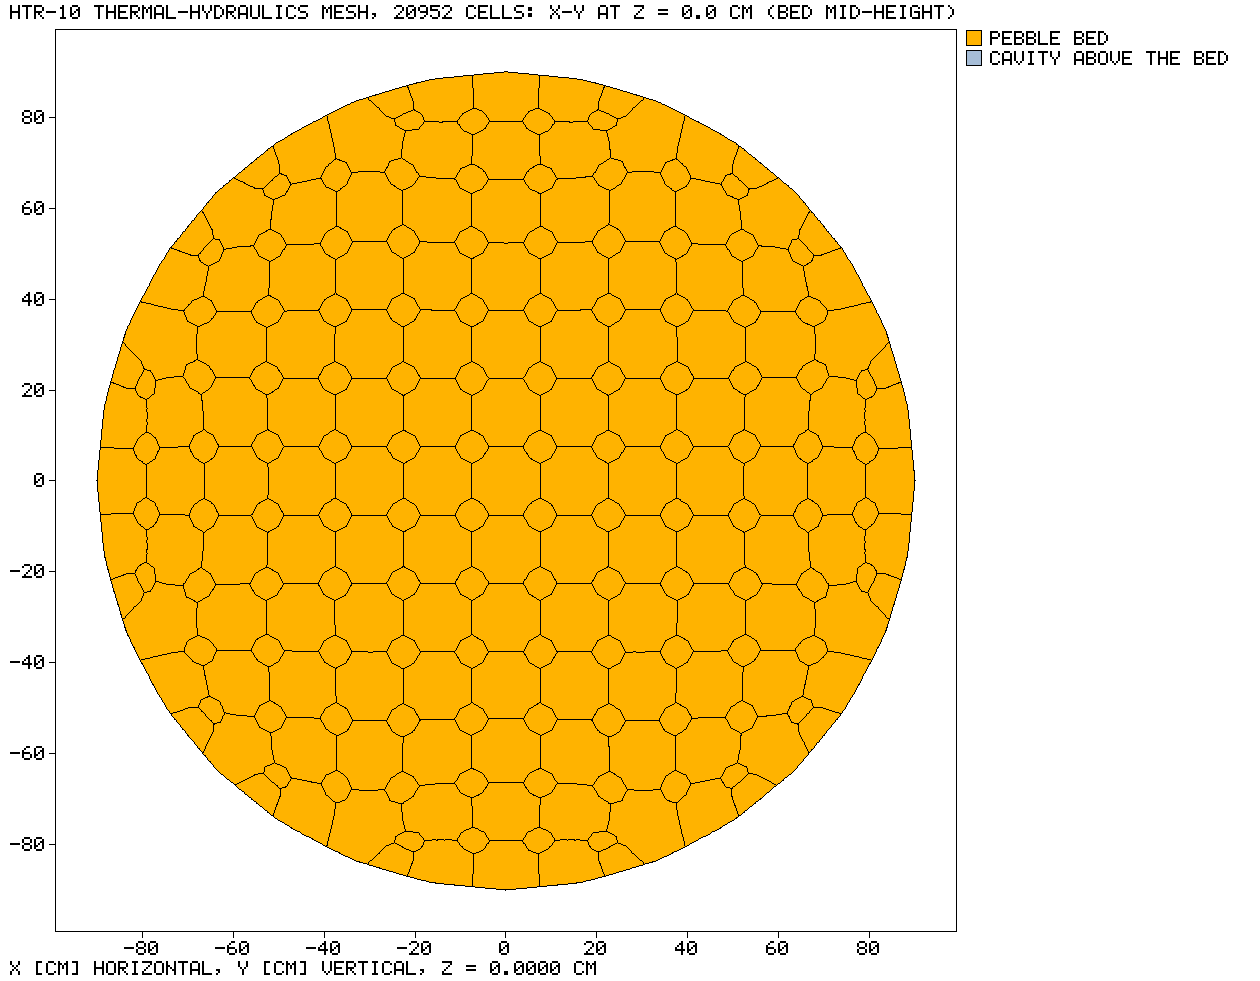
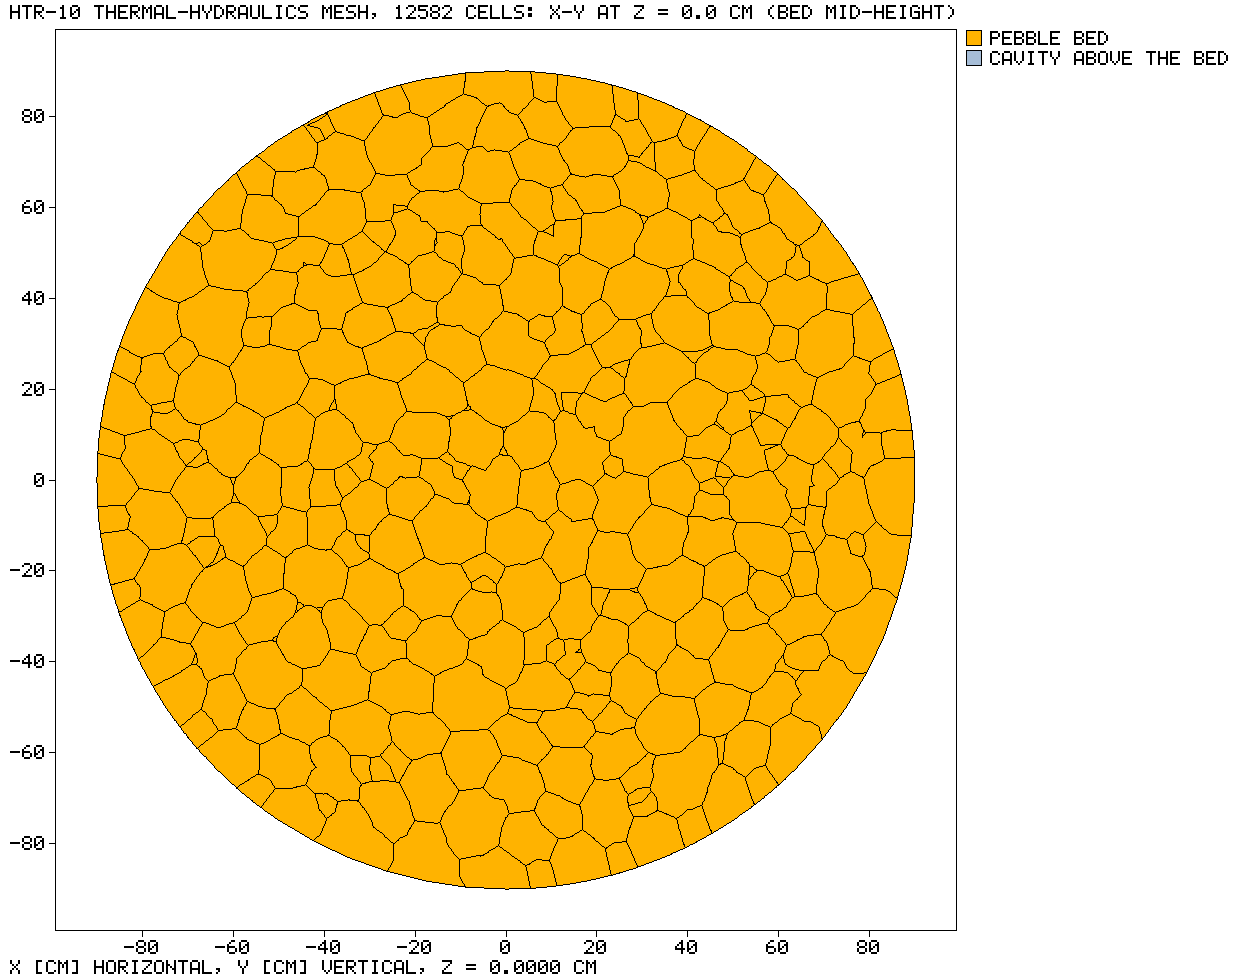
dhoby-ghaut Step 7: neutronics and TH on TetGen tet-duals; the layered TH mesh snapped before its layers grow
Maintainer, 2026-11-26: "Snap the layered TH mesh properly too and
neutronics. Tetgen dual". The neutronics and TH meshes use the cfMesh
default (TetGen, sized by the cell size; carved only for refine > 0); the
structural Tet4 mesh stays carved. The TH mesh's bare dual is morphed and
snapped first, then cfMesh's boundaryLayerOptimisation grows the 3 layers on
the true wall, then the surface faces alone are re-snapped (the untangler
moved a wall point 0.8 mm off). The face snap's recognition margin is now
0.5 % of R (HTR-10 radii are >= 5.4 % apart). TetGen's layers-first route
still refuses this mesh at the cavity_wall / bed_wall seam.

Step 7 at the default sizes: neutronics 7 657 cells, -0.04 %, 56.3 deg; TH
12 582 cells (7 722 layer cells = 3 x 2 574 wall faces), -0.15 %, 80.9 deg,
0 non-star cells (carved, unsnapped: -0.87 %, 89.6 deg); structural -0.16 %.
Run 2 m 34 s. The gate test now asserts the TH side walls (layered and not)
and the neutronics outer wall are on their true radius to 1e-9 m and the TH
layers grew. The earlier same-day state (TH not snapped) is struck through
in the record; images and CSV refreshed. CHT mesh unchanged.

Claude-Session: https://claude.ai/code/session_01MuN674Wnq45CwGurhQFz6G

diff --git a/crates/dhoby-ghaut/src/bin/dhoby-ghaut/meshing.rs b/crates/dhoby-ghaut/src/bin/dhoby-ghaut/meshing.rs
@@ -105,6 +105,26 @@ fn opts(cell_cm: f64, refine: u8, dual: bool) -> TetDualOptions {
     }
 }
 
+/// [`opts`] on TetGen's tetrahedra (the cfMesh default, sized by the cell
+/// size), unless `refine > 0` asks for the octree only the carved route
+/// has. The neutronics and thermal-hydraulics meshes (maintainer,
+/// 2026-11-26: "TetGen dual"); the structural Tet4 mesh stays carved.
+fn opts_tetgen(cell_cm: f64, refine: u8, dual: bool) -> TetDualOptions {
+    let o = opts(cell_cm, refine, dual);
+    if refine > 0 {
+        return o;
+    }
+    TetDualOptions { tet_source: TetDualOptions::default().tet_source, ..o }
+}
+
+/// Step 7's snapping settings: on unless `DHOBY_NO_SNAP=1`; the morph band is
+/// one cell (`DHOBY_SNAP_MORPH=0` turns the morph off).
+fn step7_snap(cell_cm: f64) -> (bool, f64) {
+    let on = std::env::var("DHOBY_NO_SNAP").as_deref() != Ok("1");
+    let delta = if std::env::var("DHOBY_SNAP_MORPH").as_deref() == Ok("0") { 0.0 } else { cell_cm / 100.0 };
+    (on, delta)
+}
+
 fn to_m(profile: &[[f64; 2]]) -> Vec<[f64; 2]> {
     profile
         .iter()
@@ -156,7 +176,7 @@ fn mesh_role(
     d: &RzDomain,
     plan: &MeshPlan,
     role: MeshRole,
-) -> Result<(VolumeMesh, Vec<String>, CellType), String> {
+) -> Result<(VolumeMesh, Vec<String>, CellType, bool), String> {
     let s = &plan.roles[role.index()];
     match role {
         MeshRole::Neutronics => {
@@ -165,9 +185,9 @@ fn mesh_role(
             let (vm, rep) = outram_park_fork_cfmesh::pipeline::surface_to_tet_dual_mesh(
                 &p,
                 &t,
-                &opts(s.cell_size_cm, s.refine, true),
+                &opts_tetgen(s.cell_size_cm, s.refine, true),
             )?;
-            Ok((vm, rep.stage_notes, CellType::TetDual))
+            Ok((vm, rep.stage_notes, CellType::TetDual, false))
         }
         MeshRole::Structural => {
             let prof = to_m(&d.structural_profile());
@@ -179,7 +199,7 @@ fn mesh_role(
             };
             let (vm, rep) =
                 outram_park_fork_cfmesh::pipeline::surface_to_tet_dual_mesh(&p, &t, &o)?;
-            Ok((vm, rep.stage_notes, CellType::Tet4))
+            Ok((vm, rep.stage_notes, CellType::Tet4, false))
         }
         MeshRole::ThermalHydraulics => {
             let prof = to_m(&d.th_profile());
@@ -207,13 +227,25 @@ fn mesh_role(
                 })
                 .collect();
             let regions = SurfaceRegions::from_labels(&labels);
-            let (vm, rep) = outram_park_fork_cfmesh::pipeline::surface_to_tet_dual_mesh_multipatch(
+            let (mut vm, rep) = outram_park_fork_cfmesh::pipeline::surface_to_tet_dual_mesh_multipatch(
                 &p,
                 &t,
                 &regions,
-                &opts(s.cell_size_cm, s.refine, true),
+                &opts_tetgen(s.cell_size_cm, s.refine, true),
             )?;
             let mut notes = rep.stage_notes;
+            // Snap the bare dual FIRST (2026-11-26, maintainer: "snap the
+            // layered TH mesh properly"), then grow the layers on the true
+            // wall, so every layer column is built from the snapped surface
+            // rather than moved after it (snapping a layered mesh took its
+            // worst face to 92.7 deg). After the layers, only the surface
+            // faces are snapped again (no morph): the layerer's untangling
+            // may move a wall point off the cylinder.
+            let segs = profile_segments_m(&d.th_profile());
+            let (snap_on, delta) = step7_snap(s.cell_size_cm);
+            if snap_on {
+                notes.push(snap_checked(&mut vm, None, &segs, s.n_seg, delta)?);
+            }
             // Boundary layers on the fluid's wall only (maintainer default:
             // fluid = tet-dual + layers, porous = tet-dual). The pipeline grows
             // layers before naming patches, so they are grown here, on the
@@ -253,17 +285,26 @@ fn mesh_role(
                     100.0 * lo.full_coverage(),
                     s.layers
                 ));
-                let named = assign_patches_by_region(&layered, &p, &t, &regions)?;
+                let mut named = assign_patches_by_region(&layered, &p, &t, &regions)?;
                 let q = outram_park_fork_cfmesh::checks::check_quality(&named);
                 if named.validate().is_ok() && q.n_negative_volume_cells == 0 {
                     if named.n_cells == before {
                         notes.push("boundary layers added none on cavity_wall (the adaptive layerer backed off)".into());
                     }
-                    return Ok((named, notes, CellType::TetDualWithLayers));
+                    if snap_on {
+                        match snap_checked(&mut named.clone(), None, &segs, s.n_seg, 0.0) {
+                            Ok(_) => {
+                                let n = snap_checked(&mut named, None, &segs, s.n_seg, 0.0)?;
+                                notes.push(format!("after the layers: {n}"));
+                            }
+                            Err(e) => notes.push(format!("after the layers, the surface re-snap was refused ({e}); the layered mesh is kept as grown on the snapped wall")),
+                        }
+                    }
+                    return Ok((named, notes, CellType::TetDualWithLayers, snap_on));
                 }
                 notes.push("boundary layers skipped: they would invalidate the mesh".into());
             }
-            Ok((vm, notes, CellType::TetDual))
+            Ok((vm, notes, CellType::TetDual, snap_on))
         }
     }
 }
@@ -409,7 +450,7 @@ pub fn build(
             k as f64 / 6.0,
         ));
         let t = Instant::now();
-        let (mut vm, mut notes, cell_type) = mesh_role(d, plan, role)?;
+        let (mut vm, mut notes, cell_type, already_snapped) = mesh_role(d, plan, role)?;
         // Snap onto the true surface of revolution (2026-11-26, "snap
         // properly"): the profile's cylinders and cone, not its facets.
         let prof = match role {
@@ -419,14 +460,10 @@ pub fn build(
         };
         let n_seg = plan.roles[role.index()].n_seg;
         // `DHOBY_NO_SNAP=1` is the ablation (Step 7 has no flag of its own).
-        let snap_on = std::env::var("DHOBY_NO_SNAP").as_deref() != Ok("1");
-        let delta = if std::env::var("DHOBY_SNAP_MORPH").as_deref() == Ok("0") { 0.0 } else { plan.roles[role.index()].cell_size_cm / 100.0 };
-        // A mesh with prism layers is not snapped (measured 2026-11-26 on
-        // the TH mesh: snapped, its worst face reaches 92.7 deg, over 90,
-        // whatever the morph band (1, 2 or 3 cells); unsnapped 89.6). The
-        // layer columns would have to move as units; not done yet.
-        if snap_on && cell_type == CellType::TetDualWithLayers {
-            notes.push("not snapped: a mesh with prism layers stays on the faceted surface (snapping took the TH mesh's worst face over 90 deg)".into());
+        let (snap_on, delta) = step7_snap(plan.roles[role.index()].cell_size_cm);
+        // The TH mesh snaps itself, before its layers (`mesh_role`).
+        let _ = cell_type;
+        if already_snapped {
         } else if snap_on {
             notes.push(snap_checked(&mut vm, None, &profile_segments_m(&prof), n_seg, delta).map_err(|e| format!("{}: {e}", role.name()))?);
         } else {
@@ -877,8 +914,8 @@ pub fn fitted_cht_surface(map: &RegionMap, t: &RzTiling, n_seg: usize) -> outram
 /// boundary faces and, given `cell_region`, the internal faces between two
 /// regions. A surface face whose unit normal is mostly radial (`|n_z| <
 /// 0.5`) lies on the cylinder or cone `segs[i]` whose true radius at the
-/// face centre's height `R(z_c)` satisfies `R cos(pi/n) - 1e-6 <= r_c <= R +
-/// 1e-6` (m) with `z_c` in its range: every point of that face moves
+/// face centre's height `R(z_c)` satisfies `R cos(pi/n) - 0.005 R <= r_c <= R
+/// + 0.005 R` with `z_c` in its range: every point of that face moves
 /// radially, at its own height, to `R(z)`. Faces of the discs (`|n_z| >=
 /// 0.5`) do not move their points; a rim point shared with a cylinder face
 /// moves radially and so stays in the disc's plane. It classifies faces,
@@ -914,8 +951,13 @@ pub fn snap_faces_to_revolved(mesh: &mut VolumeMesh, cell_region: Option<&[usize
             if c.z < zl - 1e-9 || c.z > zh + 1e-9 {
                 return false;
             }
+            // Margin 0.5 % of R either side: a face the layerer's untangler
+            // pushed off the cylinder (0.8 mm out on the 90 cm TH wall,
+            // 2026-11-26) is still recognised; neighbouring cylinders of these
+            // profiles are at least 5 % apart.
             let rt = r_of(sg, c.z);
-            rc >= rt * cosn - 1e-6 && rc <= rt + 1e-6
+            let m = 5e-3 * rt;
+            rc >= rt * cosn - m && rc <= rt + m
         });
         if let Some(i) = hit {
             for &v in &mesh.faces[f] {

diff --git a/crates/dhoby-ghaut/src/bin/dhoby-ghaut/main.rs b/crates/dhoby-ghaut/src/bin/dhoby-ghaut/main.rs
@@ -956,6 +956,32 @@ mod tests {
         for p in ["inlet", "outlet", "cavity_wall", "bed_wall"] {
             assert!(th.patches.iter().any(|q| q.0 == p && q.1 > 0), "TH patch {p}");
         }
+        // Snapped (2026-11-26): every point of the TH mesh's side walls,
+        // layered or not, is on the true cylinder r = core radius to 1e-9 m
+        // (the dual was snapped before its layers grew, the surface again
+        // after), and the neutronics mesh's outer wall on r = r_outer.
+        let ro = d.r_outer / 100.0;
+        let rc = d.core_radius / 100.0;
+        let on_cylinder = |m: &outram_blender::unstructured::UnstructuredMesh, patch: &str, r: f64| {
+            let pt = m.patches().iter().find(|q| q.name == patch).expect("patch");
+            let mut n = 0;
+            for &f in &pt.faces {
+                for &v in m.face(f) {
+                    let x = m.points()[v];
+                    let rr = (x[0] * x[0] + x[1] * x[1]).sqrt();
+                    // Only the side wall (not the disc faces of the same patch).
+                    if (rr - r).abs() < 0.02 * r {
+                        assert!((rr - r).abs() < 1e-9, "{patch}: point at r {rr}, want {r}");
+                        n += 1;
+                    }
+                }
+            }
+            n
+        };
+        let thm = &b.meshes[MeshRole::ThermalHydraulics.index()];
+        assert!(on_cylinder(thm, "cavity_wall", rc) > 0 && on_cylinder(thm, "bed_wall", rc) > 0);
+        assert!(on_cylinder(&b.meshes[MeshRole::Neutronics.index()], "walls", ro) > 0);
+        assert_eq!(th.cell_type, dhoby_ghaut::workbench::meshes::CellType::TetDualWithLayers, "TH layers grew");
         assert!(th.regions.iter().all(|r| r.cells == 0 || plan.regions.regions[r.region].in_core));
         for to in [MeshRole::ThermalHydraulics, MeshRole::Structural] {
             let m = b.set.mapping(MeshRole::Neutronics, to).unwrap();

diff --git a/crates/dhoby-ghaut/verification_and_validation/workbench_steps_7_8/README.md b/crates/dhoby-ghaut/verification_and_validation/workbench_steps_7_8/README.md
@@ -83,48 +83,49 @@ and anything off the two planes drawn.
 
 ### Re-measured 2026-11-26: snapped to the true geometry; TH layers restored
 
-**What changed.** Step 7 stays on the **carved** route (`opts()`: gh:#1829
-made TetGen the cfMesh default, and Step 7 asks for the carved source
-explicitly, as the octree refinement `refine` needs it). Two changes on
-2026-11-26:
+**Current state (later on 2026-11-26; maintainer: "Snap the layered TH mesh
+properly too and neutronics. Tetgen dual").** The neutronics and TH meshes
+are TetGen tet-duals (`opts_tetgen`: the cfMesh default, sized by the cell
+size; carved only if a role asks for octree refinement). The structural
+mesh stays carved Tet4, for the FEM. All three are snapped onto the true
+cylinders and cone.
 
-- **Snapped to the true geometry** (maintainer: "snap properly"): the
-  neutronics and structural meshes are morphed and then snapped onto their
-  profile's true cylinders and cone (`morph_to_revolved`,
-  `snap_faces_to_revolved`; method in `../htr10_cht_mesh/README.md`). The
-  TH mesh, which has prism layers, is **not** snapped: snapped, its worst
-  face reached 92.7° (over 90°) for a morph band of 1, 2 or 3 cells;
-  unsnapped it is 89.6°. Snapping a layered wall would need the layer
-  columns moved as units; not done. `DHOBY_NO_SNAP=1` is the ablation.
-- **The TH mesh's layers are back.** Since gh:#1215's layer quality check
-  (2026-11-04), this crate's back-off layerer shrank every column of
-  `cavity_wall` to nothing ("added none"), so the TH mesh had 9 384 cells
-  and no layer. It now uses cfMesh's `boundaryLayerOptimisation`
-  (`add_boundary_layers_cfmesh`) with its untangling passes (boundary
-  moves, LP untangler, Laplace). Without them 2 of the 20 952 cells came out
-  inverted and the layers were refused. TetGen's layers-first route
-  (gh:#1829) refuses this mesh: a column at the `cavity_wall` / `bed_wall`
-  seam at the bed top would be thinner than 1 % of the asked thickness.
-  Cost: the TH layering takes about 3 minutes (the whole `--headless-mesh`
-  run 3 m 40 s on a 4-vCPU Xeon @ 2.10 GHz, against 15–26 s before).
+- **The TH mesh is snapped before its layers grow.** The bare TetGen dual
+  is morphed and snapped, then cfMesh's `boundaryLayerOptimisation` (with its
+  untangling passes) grows the 3 layers on `cavity_wall` from the true wall,
+  so every layer column is built from the snapped surface. Then the surface
+  faces alone are snapped again (no morph), because the untangler moved a
+  wall point 0.8 mm off the cylinder. The face snap recognises a face within
+  0.5 % of R of its cylinder; the HTR-10 radii are at least 5.4 % apart.
+  TetGen's layers-first route (gh:#1829) still refuses this mesh at the
+  `cavity_wall` / `bed_wall` seam, so it is not used.
+- The gate test now asserts that every side-wall point of the TH mesh
+  (layered and not) and of the neutronics outer wall is on its true radius
+  to 1e-9 m, and that the TH layers grew.
 
-| mesh | cells | volume vs exact: record → now | non-star cells | max non-orth |
+| mesh | cells | volume vs exact: 2026-10-05 record → now | non-star cells | max non-orth |
 |---|---|---|---|---|
-| neutronics | 14 041 polyhedra | −1.24 % → **−0.40 %** (snapped) | 390 | 72.4° |
-| thermal-hydraulics | 20 952 (with layers) | −1.29 % → −0.87 % (not snapped) | 67 | 89.6° |
-| structural | 94 392 Tet4 | −0.91 % → **−0.18 %** (snapped) | 0 | 88.0° |
+| neutronics (TetGen dual) | ~~14 041~~ 7 657 polyhedra | −1.24 % → **−0.04 %** | 313 | 56.3° |
+| thermal-hydraulics (TetGen dual + 3 layers) | ~~20 952~~ 12 582 (7 722 layer cells = 3 × 2 574 wall faces) | −1.29 % → **−0.15 %** | 0 | **80.9°** |
+| structural (carved Tet4) | 94 392 | −0.91 % → **−0.16 %** | 0 | 88.0° |
 
-Without snapping (`DHOBY_NO_SNAP=1`) the neutronics and structural meshes
-are the record's exactly (−1.24 %, 73.5°; −0.91 %, 88.0°). The TH mesh is
-now −0.87 % and 89.6°; the record's −1.29 % and 86.5° came from the 2026-10-05
-back-off layers. The "exact" is still `part_volumes`' midpoint quadrature,
-so the last tenth of a percent is not resolved. The TH↔structural overlap
-is 6.5e4 cm³ (record 8.1e4). Files: `meshes_snapped_2026-11-26.csv`,
-`images/snapped_2026-11-26/`. In the TH X-Z image, a small notch at the
-`cavity_wall` / `bed_wall` seam (x ≈ 89–90 cm, z ≈ 52–62 cm) is left
-white: the layer columns' edge points slide along the unlayered bed wall
-there and pull the boundary in. The 2026-10-05 record's image shows the
-same notch; its volume is inside the −0.87 %.
+Whole `--headless-mesh` run: 2 m 34 s on a 4-vCPU Xeon @ 2.10 GHz. The
+TH↔structural overlap is 8.1e4 cm³ (record 8.1e4; both meshes are on the
+true r = 90 cm circle, each with its own chords). The TH X-Z image shows
+the layers on both cavity walls, tapering into the seam at the bed top; the
+notch of the carved mesh is gone. Files: `meshes_snapped_2026-11-26.csv`,
+`images/snapped_2026-11-26/`.
+
+~~**Earlier the same day (merged to `develop` as `d5619c4f0`):** Step 7 on
+the carved route; the neutronics and structural meshes snapped (−0.40 %,
+72.4°; −0.18 %, 88.0°); the TH mesh with its layers restored by cfMesh's
+`boundaryLayerOptimisation` (20 952 cells) but **not snapped**, because
+snapping a layered mesh after the fact took its worst face to 92.7° for
+any morph band (unsnapped 89.6°). It showed a small notch at the seam.~~
+Superseded by snapping before the layers grow, above. The finding still
+holds for the layered carved mesh: snapping after the layers is not safe.
+The TH layers had been missing since gh:#1215's quality check (2026-11-04):
+the back-off layerer shrank every column to nothing.
 
 ~~**Measured earlier the same day on TetGen** (this branch's TetGen
 default before develop's gh:#1829 was merged; not shipped): neutronics 7 657
